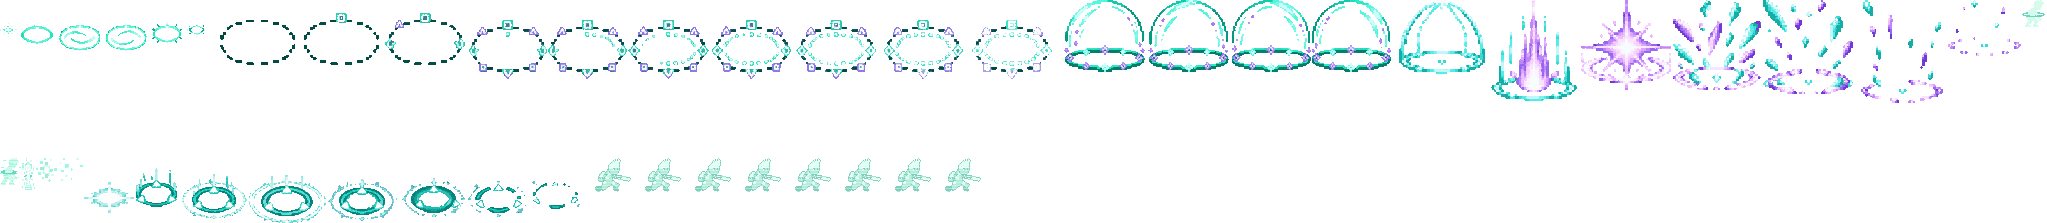
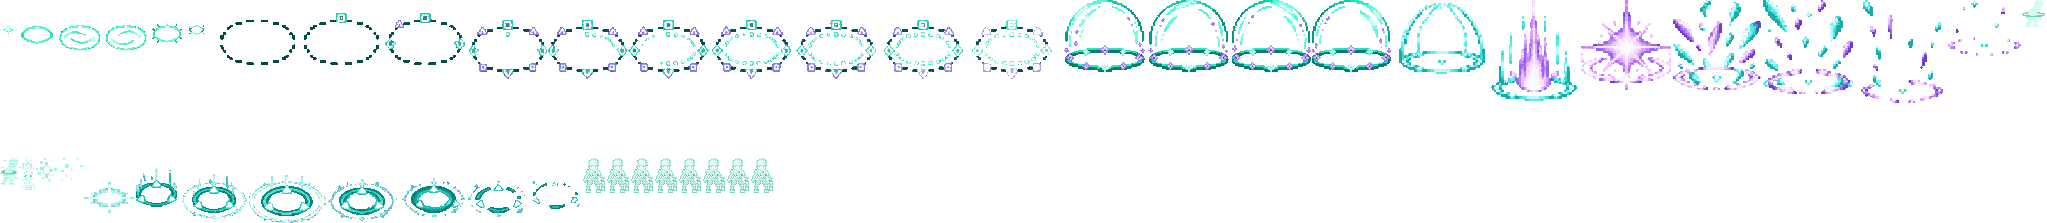
Ekko: Chronobreak's hologram made from Codex's front view (faces no way on either side)
The hologram was his side-on idle in mint and faced right on the red side.
Codex's front view (assets/source/red_side/ekko_front.png, 35 squares tall,
soles and middle on the canvas marks) is read at game size, centred on his
pivot, and turned into the same 8 x 500 ms mint hologram. Mirror share
0.54 -> 0.16: lint's front-and-back warning has nothing left in the pack.

Changed region(s): [[0.277, 0.6996, 0.4924, 0.861]]

diff --git a/tools/art/import_ekko.py b/tools/art/import_ekko.py
@@ -22,9 +22,9 @@ on; the ground rings on the ellipse's middle, at the share of the canvas height 
 
 The second step places every cell by its anchor: the device flies with its core on the projectile; hits on the
 body; the ground rings on the ground under the unit (11 px below the pivot); the stun clock over the head; the
-shield round his body. Chronobreak's hologram (r_ghost, 4 s where he cast it) is Ekko's own idle drawing in the
-mint of League's rewind skin, with scan lines and two glitch frames: made here from league_ekko's sheet, not by
-Codex. No palette or outline pass on the sheets. Writes league/effects/league_ekko_fx (hit, q_hit, z_proc,
+shield round his body. Chronobreak's hologram (r_ghost, 4 s where he cast it) is Ekko's front view
+(assets/source/red_side/ekko_front.png: it faces no way, as nothing mirrors it) in the mint of League's rewind skin,
+with scan lines and two glitch frames. No palette or outline pass on the sheets. Writes league/effects/league_ekko_fx (hit, q_hit, z_proc,
 q_device, e_dash, e_hit, w_stun, w_shield, r_hit) and league/effects/league_ekko_big (q_field, w_forming,
 w_sphere, w_shatter, r_ghost, r_depart, r_arrive).
 """
@@ -184,12 +184,29 @@ MINT = [(0xD8, 0xFF, 0xF0), (0x9C, 0xE8, 0xD0), (0x5C, 0xC4, 0xAC), (0x3A, 0x8C,
 GHOST_ALPHA, SCAN_ALPHA = 200, 130
 
 
+# Ekko from the front (Codex, 2026-10-06; assets/source/red_side/PROMPTS.md): 8x blocks on a 56 x 56 canvas, the
+# soles on row 46, the middle on column 28. The client never mirrors an effect picture, so the hologram made from his
+# side-on idle faced right on the red side too; a front view faces no way.
+FRONT = os.path.join(ROOT, "assets", "source", "red_side", "ekko_front.png")
+FRONT_SOLES, FRONT_MID = 46, 28
+
+
+def front():
+    """The front view at game size, centred on his pivot (the soles 11 rows under it)."""
+    a = np.asarray(Image.open(G.lp(FRONT)).convert("RGBA"))[4::8, 4::8].copy()
+    py, px = FRONT_SOLES - 11, FRONT_MID
+    hh = max(py, a.shape[0] - 1 - py)
+    hw = max(px, a.shape[1] - 1 - px)
+    out = np.zeros((2 * hh + 1, 2 * hw + 1, 4), np.uint8)
+    out[hh - py:hh - py + a.shape[0], hw - px:hw - px + a.shape[1]] = a
+    return out
+
+
 def hologram():
-    """Ekko's idle drawing (the first idle frame of his sheet, centred on its pivot) in the rewind skin's mint:
-    each pixel by its brightness (the outline the darkest), every third row a dimmer scan line; 8 x 500 ms, the
-    third and sixth frames glitching (a band of rows slid a pixel sideways)."""
-    sp = T.load_sprite(os.path.join(MOD, "champions", "league_ekko"))
-    f = np.asarray(sp.frames[sp.tag_frames("idle")[0]].convert("RGBA")).copy()
+    """Ekko's front view (front()) in the rewind skin's mint: each pixel by its brightness (the outline the darkest),
+    every third row a dimmer scan line; 8 x 500 ms, the third and sixth frames glitching (a band of rows slid a pixel
+    sideways). Until 2026-10-06 it was his side-on idle, which faced right on the red side."""
+    f = front()
     on = f[..., 3] > 0
     lum = (0.299 * f[..., 0] + 0.587 * f[..., 1] + 0.114 * f[..., 2]) / 255.0
     cuts = np.quantile(lum[on], [0.75, 0.45, 0.2])

diff --git a/tools/fix/red_side_caster_fx.py b/tools/fix/red_side_caster_fx.py
@@ -15,7 +15,8 @@ The client never mirrors a data effect picture (champion-data.md section 6), so 
    the shot: league_ezreal R, league_riven's Wind Slash, league_yasuo Q and E, league_vayne's bolts) are made symmetric
    too; a slash or crescent across the target reads the same either way and stays.
 KEEP is what neither fits: league_ekko's R hologram, a figure of him left where he cast it for 4 s while he walks on
-(not one action, and his side-on idle has a front); it gets a front view (assets/source/red_side/PROMPTS.md).
+(not one action, and his side-on idle had a front): tools/art/import_ekko.py makes it from Codex's front view now
+(assets/source/red_side/ekko_front.png), so it is symmetric and nothing is left.
 """
 import argparse
 import os

diff --git a/.claude/skills/tfm2-hero-mod/references/champion-data.md b/.claude/skills/tfm2-hero-mod/references/champion-data.md
@@ -718,11 +718,11 @@ the same champion file.
   - **A figure of the hero left on the ground while he moves on is drawn from the front.** It is no one action,
     nothing reads his facing, and a projectile's picture turned half round stands upside down - but a figure facing
     the viewer faces no way. league_yone's E body was one already (it only stood 4 squares right of its spot: its
-    pivot moved in `yone_cells.json`); league_ekko's R hologram, made from his side-on idle, waits for a front view
-    (`assets/source/red_side/PROMPTS.md`, `tools/art/pack_red_side_figures.py`). league_shaco's R clone needs none:
+    pivot moved in `yone_cells.json`); league_ekko's R hologram was made from his side-on idle and is made from Codex's front view now
+    (`assets/source/red_side/ekko_front.png`, `PROMPTS.md`, `tools/art/pack_red_side_figures.py`, `import_ekko.py`). league_shaco's R clone needs none:
     it always stands left of the champion it strikes, facing him, whichever side Shaco cast from.
   `lint_mod.py` warns on every caster picture whose mirror leaves more than half its pixels on empty ones (137 in 46
-  heroes before the pass, league_ekko's ghost after); `tools/art/bake_gifs.py --hero <hero>` draws the blue side and
+  heroes before the pass, none after); `tools/art/bake_gifs.py --hero <hero>` draws the blue side and
   the red side before and after (`docs/preview/red_side/<hero>_bake.gif`). An `Animation` plays its tag once, so a
   view that must stand for seconds lists its loop frames again (a 4 s loop of 100 ms frames is 40 frames). A
   `CasterViewEffect` stays where it was played unless `is_follow`; a following one cannot be stopped: refreshed before

diff --git a/.claude/skills/tfm2-hero-mod/SKILL.md b/.claude/skills/tfm2-hero-mod/SKILL.md
@@ -102,8 +102,8 @@ empty tooltip). That is why the linter exists - run it after every edit.
   animation would have: a `CasterAnimation` keeps the unit from walking), then `tools/art/import_native.py` redraws
   the sheet. A caster picture that plays while he walks, and a hit that shows where the blow came from, is made
   left-right symmetric (`tools/fix/mirror_union_fx.py`); one that must point at a target rides a projectile (turned
-  with it). A figure of the hero left on the ground is drawn from the front (league_ekko's R hologram: Codex's front
-  view, `assets/source/red_side/PROMPTS.md`). `tools/fix/red_side_caster_fx.py` is the 2026-10-06 pass over the whole pack.
+  with it). A figure of the hero left on the ground is drawn from the front (league_ekko's R hologram, from Codex's
+  front view `assets/source/red_side/ekko_front.png`). `tools/fix/red_side_caster_fx.py` is the 2026-10-06 pass over the whole pack.
   `lint_mod.py` warns on every caster picture with a front and a back (champion-data section 6);
   `tools/art/bake_gifs.py` draws the blue side and the red side before and after.
 - **Both sides: a zone's picture turns with the cast.** The `view_projectiles` picture of a `RangeProjectile` /

diff --git a/assets/source/red_side/PROMPTS.md b/assets/source/red_side/PROMPTS.md
@@ -41,3 +41,5 @@ Size and placement: the top of the hair on row 12, the soles on the bottom of ro
 - **小丑 R 的分身**挂在被攻击的敌方英雄身上，固定站在目标左边、面朝目标出手；不管小丑从哪边放，都是「站在目标一侧朝目标砍」，不算反，正面站姿反而不能出手。
 
 打包：`python tools/art/pack_red_side_figures.py --out <文件夹> --zip`。
+
+已完成（2026-10-06）：Codex 交回的正面图存为 `assets/source/red_side/ekko_front.png`，`tools/art/import_ekko.py` 的全息残影改由它生成。
